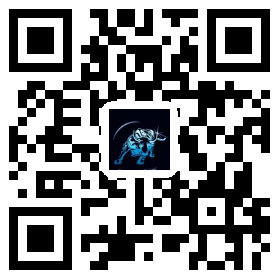
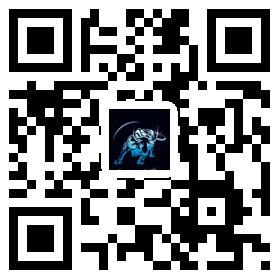
add site qr code

diff --git a/web/vue/app.vue b/web/vue/app.vue
@@ -93,7 +93,7 @@
             <div class="footer-side">
                 <span> 快速扫描二维码打开网站</span>
                 <div class="qr-code">
-                    <img src="/" alt="">
+                    <img src="/home/images/qr-code.png" :alt="site.site_name">
                 </div>
             </div>
         </footer>
